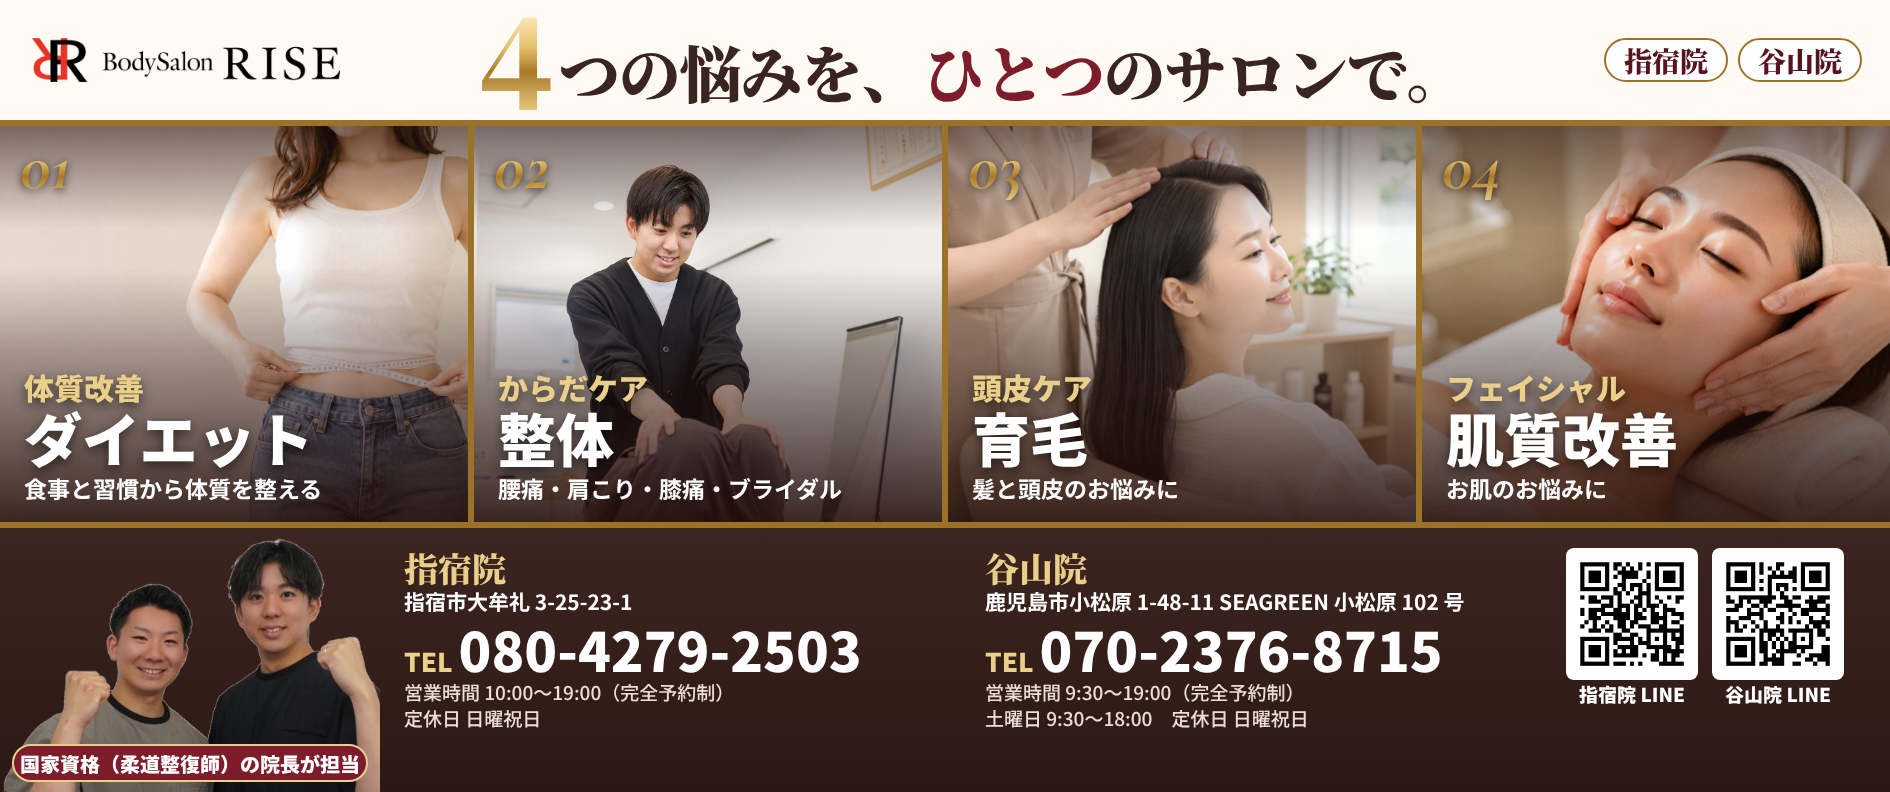
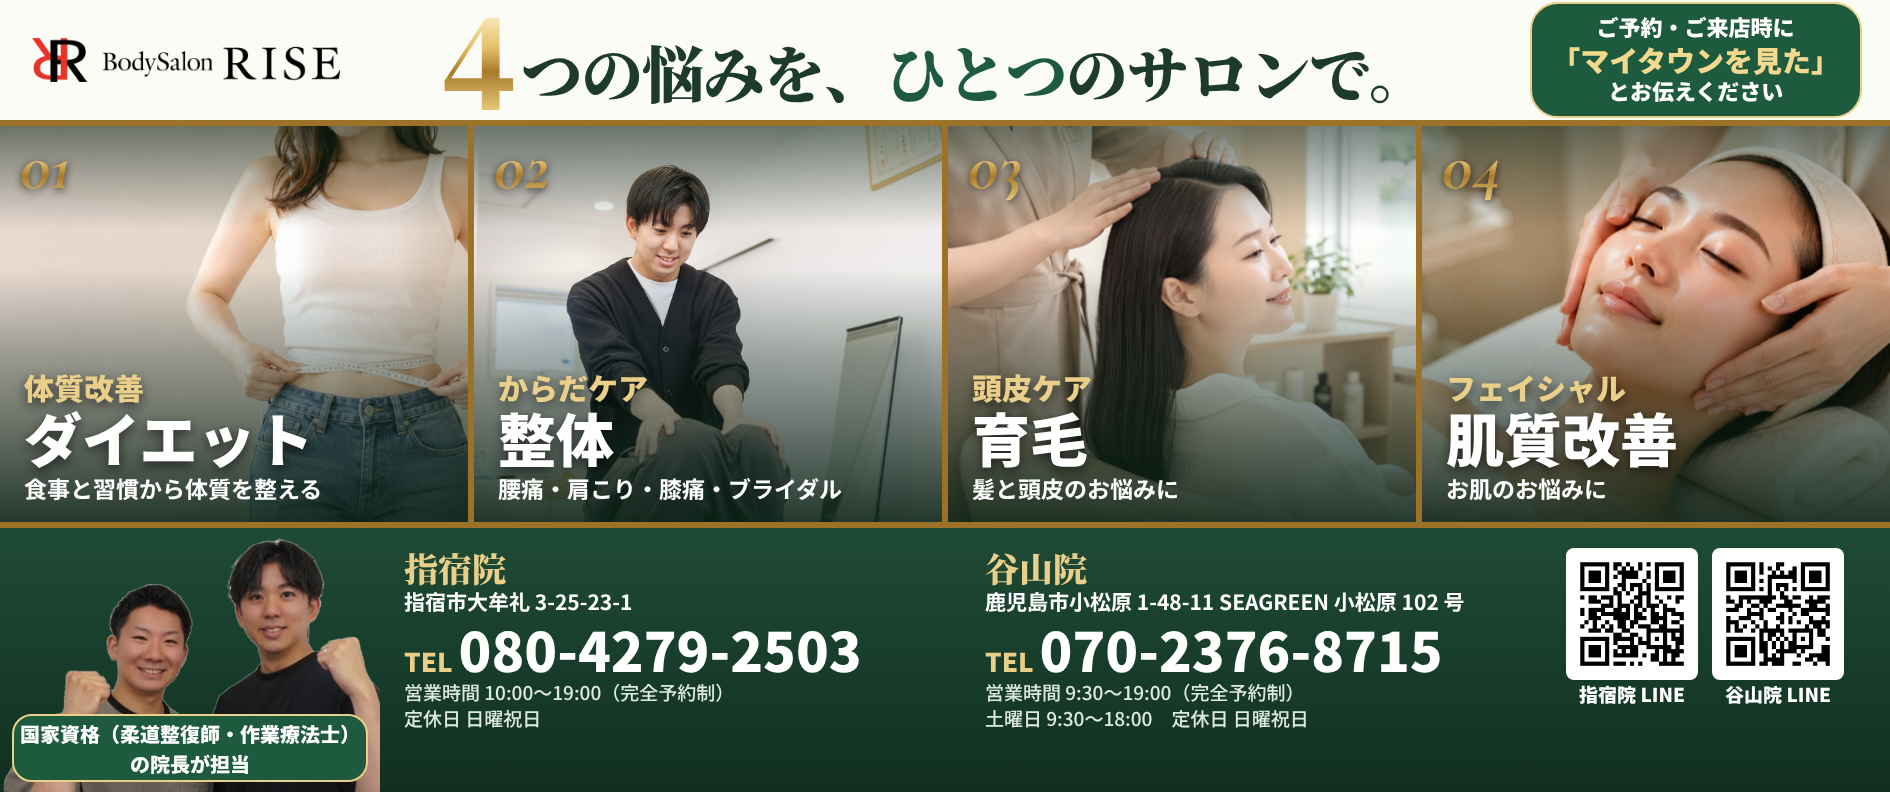
ライズ様：広告・帯をグリーン基調に、和田一真さんを作業療法士に、キーワード「マイタウンを見た」を追加
Claude-Session: https://claude.ai/code/session_01AEUD4z4Xri7e87iKXPW3R9

diff --git a/sites/rise/mytownguide/ad-1page.html b/sites/rise/mytownguide/ad-1page.html
@@ -6,14 +6,14 @@
 <link href="https://fonts.googleapis.com/css2?family=Noto+Sans+JP:wght@500;700;900&family=Noto+Serif+JP:wght@600;900&family=Cormorant+Garamond:ital,wght@1,600;1,700&display=block" rel="stylesheet">
 <style>
 /* 1100 x 1556 px（A4比率）。deviceScaleFactor 2 で 2200 x 3112 に書き出し */
-:root{--wine:#7d1d2c;--wine-d:#561320;--brown:#3a2420;--ink:#2e1e1a;--gold1:#9c7128;--gold2:#e9cf8a;--cream:#fbf5ec;--cream2:#f3e6d3}
+:root{--wine:#1d5a3e;--wine-d:#123d29;--brown:#1d3a2b;--ink:#17291f;--gold1:#9c7128;--gold2:#e9cf8a;--cream:#f5f8ef;--cream2:#dfe9d6}
 *{box-sizing:border-box;margin:0;padding:0}
 body{width:1100px;height:1556px;overflow:hidden;position:relative;background:var(--cream);font-family:"Noto Sans JP",sans-serif;color:var(--ink)}
 .goldbg{background:linear-gradient(135deg,#a77a2c 0%,#f1d999 28%,#c39a48 52%,#f6e3a6 74%,#a77a2c 100%)}
 .goldtxt{background:linear-gradient(180deg,#fff1c4 0%,#e3bf6a 38%,#a87a2a 62%,#e6c878 100%);-webkit-background-clip:text;background-clip:text;color:transparent}
 
 /* ヘッダー */
-.head{position:absolute;left:0;right:0;top:0;height:64px;display:flex;align-items:center;justify-content:space-between;padding:0 30px;background:#fffaf3}
+.head{position:absolute;left:0;right:0;top:0;height:64px;display:flex;align-items:center;justify-content:space-between;padding:0 30px;background:#fbfcf6}
 .head img{height:34px;display:block}
 .head .lead{font-weight:900;font-size:19px;color:var(--wine)}
 .inns{display:flex;gap:8px}
@@ -24,8 +24,8 @@ body{width:1100px;height:1556px;overflow:hidden;position:relative;background:var
 .cell{position:relative;overflow:hidden}
 .cell img{position:absolute;inset:0;width:100%;height:100%;object-fit:cover}
 .cell::after{content:"";position:absolute;inset:0}
-.c1::after,.c2::after{background:linear-gradient(180deg,rgba(35,14,10,.82) 0%,rgba(35,14,10,.35) 38%,rgba(35,14,10,0) 60%)}
-.c3::after,.c4::after{background:linear-gradient(0deg,rgba(35,14,10,.85) 0%,rgba(35,14,10,.35) 40%,rgba(35,14,10,0) 62%)}
+.c1::after,.c2::after{background:linear-gradient(180deg,rgba(10,34,22,.82) 0%,rgba(10,34,22,.35) 38%,rgba(10,34,22,0) 60%)}
+.c3::after,.c4::after{background:linear-gradient(0deg,rgba(10,34,22,.85) 0%,rgba(10,34,22,.35) 40%,rgba(10,34,22,0) 62%)}
 .tx{position:absolute;z-index:2;color:#fff}
 .c1 .tx{left:26px;top:16px}.c2 .tx{right:26px;top:16px;text-align:right}
 .c3 .tx{left:26px;bottom:20px}.c4 .tx{right:26px;bottom:20px;text-align:right}
@@ -58,42 +58,44 @@ body{width:1100px;height:1556px;overflow:hidden;position:relative;background:var
 .photo2 img.p{position:absolute;left:-10px;bottom:-78px;width:550px;-webkit-mask-image:linear-gradient(90deg,transparent 0,#000 10%);mask-image:linear-gradient(90deg,transparent 0,#000 10%)}
 .medal{position:absolute;width:92px;height:92px;border-radius:50%;display:grid;place-items:center;text-align:center;box-shadow:0 5px 12px rgba(90,60,20,.3);z-index:3}
 .medal b{font-family:"Noto Serif JP",serif;font-weight:900;font-size:17px;line-height:1.2;color:#4a2a12}
-.medal b small{display:block;font-size:12.5px}
+.medal b small{display:block;font-size:11px;line-height:1.25;margin-top:2px}
 .m1{right:400px;top:70px}
 .prof{position:absolute;left:26px;right:520px;top:58px;display:grid;grid-template-columns:1fr 1fr;gap:12px}
-.pc{background:#fff;border-radius:12px;border:2px solid var(--gold2);overflow:hidden;box-shadow:0 4px 12px rgba(60,30,20,.1)}
+.pc{background:#fff;border-radius:12px;border:2px solid var(--gold2);overflow:hidden;box-shadow:0 4px 12px rgba(20,50,35,.1)}
 .pc .ph{height:150px;overflow:hidden}
 .pc .ph img{width:100%;height:100%;object-fit:cover;display:block}
 .pc .bd{padding:8px 12px 10px}
 .pc .in{font-size:14px;font-weight:900;color:#fff;background:var(--wine);display:inline-block;padding:1px 10px;border-radius:14px}
 .pc .nm{font-family:"Noto Serif JP",serif;font-weight:900;font-size:30px;line-height:1.15;color:var(--brown);margin-top:3px}
 .pc .nm small{font-size:15px;margin-left:6px;color:var(--gold1)}
-.pc .q{font-size:15px;font-weight:700;line-height:1.45;color:#4b3a33;margin-top:4px}
+.pc .q{font-size:15px;font-weight:700;line-height:1.45;color:#2f4036;margin-top:4px}
 .pc .ql{font-size:12.5px;font-weight:700;color:var(--gold1);margin-top:3px}
 
 /* 下段：結果写真とQR */
 .low{position:absolute;left:26px;right:26px;top:1186px;height:196px;display:grid;grid-template-columns:304px 1fr;gap:16px;align-items:end}
 .res{position:relative;padding-top:26px;align-self:end;margin-bottom:6px}
-.res img{width:100%;height:auto;display:block;border-radius:12px;border:3px solid #fff;box-shadow:0 4px 12px rgba(60,30,20,.2)}
+.res img{width:100%;height:auto;display:block;border-radius:12px;border:3px solid #fff;box-shadow:0 4px 12px rgba(20,50,35,.2)}
 .res .cap{position:absolute;left:8px;top:0;background:var(--wine);color:#fff;font-weight:900;font-size:16px;padding:2px 14px;border-radius:20px}
-.res .note{position:absolute;right:8px;bottom:6px;font-size:11px;font-weight:700;color:#fff;background:rgba(43,24,20,.72);padding:1px 8px;border-radius:10px}
-.qr{background:#fff;border-radius:14px;border:2px solid var(--gold2);display:flex;align-items:center;padding:8px 18px;gap:14px;box-shadow:0 4px 12px rgba(60,30,20,.12);height:160px;margin-bottom:12px}
+.res .note{position:absolute;right:8px;bottom:6px;font-size:11px;font-weight:700;color:#fff;background:rgba(18,50,36,.78);padding:1px 8px;border-radius:10px}
+.qr{background:#fff;border-radius:14px;border:2px solid var(--gold2);display:flex;align-items:center;padding:8px 18px;gap:14px;box-shadow:0 4px 12px rgba(20,50,35,.12);height:136px;margin-bottom:12px;position:relative}
+.kw{position:absolute;left:-2px;right:-2px;top:-50px;height:40px;border-radius:22px;background:var(--wine);color:#fff;display:flex;align-items:center;justify-content:center;gap:6px;font-weight:900;font-size:19px;box-shadow:0 4px 10px rgba(20,50,35,.25);border:2px solid var(--gold2);white-space:nowrap}
+.kw b{font-size:24px;color:var(--wine);background:linear-gradient(135deg,#f6e3a6,#e3bf6a);padding:0 12px;border-radius:14px;line-height:1.35}
 .qr .msg{font-weight:900;font-size:23px;line-height:1.28;color:var(--wine);width:120px;flex:none}
 .qg{display:flex;gap:8px;flex:1;justify-content:space-between}
 .qg .q{text-align:center}
-.qg .q img{width:98px;height:98px;display:block}
+.qg .q img{width:86px;height:86px;display:block}
 .qg .q span{display:block;font-weight:900;font-size:13px;line-height:1.2;margin-top:3px;color:var(--brown)}
 .qg .q span.ln{color:#05a046}
 .qg .sep{width:2px;background:var(--cream2)}
 
 /* フッター */
-.foot{position:absolute;left:0;right:0;bottom:0;height:172px;background:linear-gradient(180deg,#3d2520,#2b1814);color:#fff;display:grid;grid-template-columns:1fr 1fr;padding:10px 36px 0;border-top:5px solid #c9a24f}
+.foot{position:absolute;left:0;right:0;bottom:0;height:172px;background:linear-gradient(180deg,#1f4b36,#112f21);color:#fff;display:grid;grid-template-columns:1fr 1fr;padding:10px 36px 0;border-top:5px solid #c9a24f}
 .foot .c+.c{padding-left:30px;border-left:1px solid #ffffff33}
 .foot h4{font-family:"Noto Serif JP",serif;font-weight:900;font-size:25px;line-height:1.2;color:var(--gold2)}
 .foot .ad{font-size:16px;font-weight:700;margin-top:0}
 .foot .tel{font-weight:900;font-size:46px;line-height:1.05;margin-top:0}
 .foot .tel small{font-size:24px;margin-right:6px;color:var(--gold2)}
-.foot .hr{font-size:15px;line-height:1.4;color:#eadfd6;font-weight:500}
+.foot .hr{font-size:15px;line-height:1.4;color:#dfeadf;font-weight:500}
 </style>
 </head>
 <body>
@@ -118,18 +120,19 @@ body{width:1100px;height:1556px;overflow:hidden;position:relative;background:var
 <div class="band"><span>ダイエット</span><i></i><span>整体</span><i></i><span>育毛</span><i></i><span>肌質改善</span></div>
 
 <div class="staffsec">
-  <div class="sttl">施術するのは、<b>国家資格をもつ院長</b>です<small>柔道整復師</small></div>
+  <div class="sttl">施術するのは、<b>国家資格をもつ院長</b>です<small>柔道整復師・作業療法士</small></div>
   <div class="photo2"><div class="ring"></div><img class="p" src="img/inchou-cut.png" alt="院長2名"></div>
-  <div class="medal goldbg m1"><b>国家資格<small>柔道整復師</small></b></div>
+  <div class="medal goldbg m1"><b>国家資格<small>柔道整復師<br>作業療法士</small></b></div>
   <div class="prof">
     <div class="pc"><div class="ph"><img src="../img/r-posture.jpg" style="object-position:30% 40%" alt=""></div><div class="bd"><span class="in">指宿院 院長</span><div class="nm">和田 諒真<small>柔道整復師</small></div><div class="q">「無理な提案や押しつけはせず、納得していただいてから施術します。」</div></div></div>
-    <div class="pc"><div class="ph"><img src="../img/r-treat.jpg" style="object-position:40% 40%" alt=""></div><div class="bd"><span class="in">谷山院 院長</span><div class="nm">和田 一真<small>柔道整復師</small></div><div class="q">「お悩みやご希望を、ていねいにうかがってから進めます。」</div></div></div>
+    <div class="pc"><div class="ph"><img src="../img/r-treat.jpg" style="object-position:40% 40%" alt=""></div><div class="bd"><span class="in">谷山院 院長</span><div class="nm">和田 一真<small>作業療法士</small></div><div class="q">「お悩みやご希望を、ていねいにうかがってから進めます。」</div></div></div>
   </div>
 </div>
 
 <div class="low">
   <div class="res"><img src="img/results-ad.jpg" alt="お客様の写真"><span class="cap">ダイエットコースのお客様</span><div class="note">※効果には個人差があります</div></div>
   <div class="qr">
+    <div class="kw">ご予約・ご来店の際に<b>「マイタウンを見た」</b>とお伝えください</div>
     <div class="msg">ご予約・<br>ご相談は<br>LINEで</div>
     <div class="qg">
       <div class="q"><img src="img/qr-line-ibusuki.png" alt=""><span class="ln">指宿院<br>LINE</span></div>

diff --git a/sites/rise/mytownguide/backcover-band.html b/sites/rise/mytownguide/backcover-band.html
@@ -6,11 +6,11 @@
 <link href="https://fonts.googleapis.com/css2?family=Noto+Sans+JP:wght@500;700;900&family=Noto+Serif+JP:wght@600;900&family=Cormorant+Garamond:ital,wght@1,700&display=block" rel="stylesheet">
 <style>
 /* 945 x 396 px。deviceScaleFactor 2 で 1890 x 792（今の裏表紙の枠と同じ比率） */
-:root{--wine:#7d1d2c;--wine-d:#561320;--brown:#3a2420;--ink:#2e1e1a;--gold1:#9c7128;--gold2:#e9cf8a;--cream:#fbf5ec}
+:root{--wine:#1d5a3e;--wine-d:#123d29;--brown:#1d3a2b;--ink:#17291f;--gold1:#9c7128;--gold2:#e9cf8a;--cream:#f5f8ef}
 *{box-sizing:border-box;margin:0;padding:0}
 body{width:945px;height:396px;overflow:hidden;position:relative;font-family:"Noto Sans JP",sans-serif;color:var(--ink);background:var(--cream)}
 .goldtxt{background:linear-gradient(180deg,#fff1c4 0%,#e3bf6a 38%,#a87a2a 62%,#e6c878 100%);-webkit-background-clip:text;background-clip:text;color:transparent}
-.head{position:absolute;left:0;right:0;top:0;height:60px;display:flex;align-items:center;padding:0 14px 0 16px;gap:14px;background:#fffaf3}
+.head{position:absolute;left:0;right:0;top:0;height:60px;display:flex;align-items:center;padding:0 14px 0 16px;gap:14px;background:#fbfcf6}
 .head img{height:22px}
 .h1{font-family:"Noto Serif JP",serif;font-weight:900;color:var(--brown);display:flex;align-items:flex-end;white-space:nowrap;line-height:1;flex:1;justify-content:center}
 .h1 .n4{font-size:62px;line-height:.82;margin-right:2px}
@@ -21,13 +21,13 @@ body{width:945px;height:396px;overflow:hidden;position:relative;font-family:"Not
 .row{position:absolute;left:0;right:0;top:60px;height:204px;display:grid;grid-template-columns:repeat(4,1fr);gap:3px;background:var(--gold1);border-top:3px solid var(--gold1);border-bottom:3px solid var(--gold1)}
 .cell{position:relative;overflow:hidden}
 .cell img{position:absolute;inset:0;width:100%;height:100%;object-fit:cover}
-.cell::after{content:"";position:absolute;inset:0;background:linear-gradient(0deg,rgba(35,14,10,.88) 0%,rgba(35,14,10,.35) 42%,rgba(35,14,10,0) 64%),linear-gradient(180deg,rgba(35,14,10,.55) 0%,rgba(35,14,10,0) 26%)}
+.cell::after{content:"";position:absolute;inset:0;background:linear-gradient(0deg,rgba(10,34,22,.88) 0%,rgba(10,34,22,.35) 42%,rgba(10,34,22,0) 64%),linear-gradient(180deg,rgba(10,34,22,.55) 0%,rgba(10,34,22,0) 26%)}
 .tx{position:absolute;left:12px;right:8px;bottom:9px;z-index:2;color:#fff}
 .no{font-family:"Cormorant Garamond",serif;font-style:italic;font-weight:700;font-size:34px;line-height:.9;filter:drop-shadow(0 1px 2px rgba(0,0,0,.7));position:absolute;left:10px;top:6px;z-index:2}
 .tx h3{font-weight:900;font-size:29px;line-height:1.05;text-shadow:0 2px 6px rgba(0,0,0,.6);white-space:nowrap}
 .tx h3 small{display:block;font-size:15px;color:var(--gold2);margin-bottom:1px}
 .tx p{font-size:11.5px;font-weight:700;margin-top:4px;line-height:1.3}
-.foot{position:absolute;left:0;right:0;bottom:0;height:132px;background:linear-gradient(180deg,#3d2520,#2b1814);color:#fff;display:grid;grid-template-columns:190px 1fr 1fr 150px;gap:12px;padding:10px 12px 0 0}
+.foot{position:absolute;left:0;right:0;bottom:0;height:132px;background:linear-gradient(180deg,#1f4b36,#112f21);color:#fff;display:grid;grid-template-columns:190px 1fr 1fr 150px;gap:12px;padding:10px 12px 0 0}
 .staff{position:relative;overflow:hidden;margin-top:-10px}
 .staff img{position:absolute;left:0;bottom:-6px;width:200px}
 .staff span{position:absolute;left:6px;right:6px;bottom:5px;z-index:2;font-size:10px;font-weight:900;text-align:center;background:var(--wine);border:1px solid var(--gold2);border-radius:10px;padding:1px 0}
@@ -35,18 +35,20 @@ body{width:945px;height:396px;overflow:hidden;position:relative;font-family:"Not
 .foot .ad{font-size:10.5px;font-weight:700;line-height:1.35}
 .foot .tel{font-weight:900;font-size:27px;line-height:1.15;white-space:nowrap}
 .foot .tel small{font-size:13px;margin-right:3px;color:var(--gold2)}
-.foot .hr{font-size:9.5px;line-height:1.45;color:#eadfd6}
+.foot .hr{font-size:9.5px;line-height:1.45;color:#dfeadf}
 .qr{display:flex;gap:7px}
 .qr div{text-align:center}
 .qr img{width:66px;height:66px;display:block;background:#fff;padding:3px;border-radius:4px}
 .qr span{display:block;font-size:9.5px;font-weight:900;line-height:1.2;margin-top:2px}
+.kw{margin-left:auto;background:var(--wine);color:#fff;font-weight:900;font-size:11px;line-height:1.25;padding:5px 10px;border-radius:14px;border:1.5px solid var(--gold2);text-align:center;white-space:nowrap}
+.kw b{display:block;font-size:14.5px;color:#f3d98e}
 </style>
 </head>
 <body>
 <div class="head">
   <img src="img/logo.png" alt="Body Salon RISE">
   <div class="h1"><span class="n4 goldtxt">4</span><span class="t">つの悩みを、<b>ひとつ</b>のサロンで。</span></div>
-  <div class="inns"><span>指宿院</span><span>谷山院</span></div>
+  <div class="kw">ご予約・ご来店時に<b>「マイタウンを見た」</b>とお伝えください</div>
 </div>
 <div class="row">
   <div class="cell"><img src="../img/ai-waist.jpg" style="object-position:62% 45%" alt=""><span class="no goldtxt">01</span><div class="tx"><h3><small>体質改善</small>ダイエット</h3><p>食事と習慣から体質を整える</p></div></div>
@@ -55,7 +57,7 @@ body{width:945px;height:396px;overflow:hidden;position:relative;font-family:"Not
   <div class="cell"><img src="../img/hada.jpg" style="object-position:50% 40%" alt=""><span class="no goldtxt">04</span><div class="tx"><h3><small>フェイシャル</small>肌質改善</h3><p>お肌のお悩みに</p></div></div>
 </div>
 <div class="foot">
-  <div class="staff"><img src="img/inchou-cut.png" alt="院長2名"><span>国家資格（柔道整復師）の院長が担当</span></div>
+  <div class="staff"><img src="img/inchou-cut.png" alt="院長2名"><span>国家資格（柔道整復師・作業療法士）の院長が担当</span></div>
   <div><h4>指宿院</h4><div class="ad">指宿市大牟礼 3-25-23-1</div><div class="tel"><small>TEL</small>080-4279-2503</div><div class="hr">営業時間 10:00～19:00（完全予約制）<br>定休日 日曜祝日</div></div>
   <div><h4>谷山院</h4><div class="ad">鹿児島市小松原 1-48-11 SEAGREEN 小松原 102 号</div><div class="tel"><small>TEL</small>070-2376-8715</div><div class="hr">営業時間 9:30～19:00（完全予約制）<br>土曜日 9:30～18:00　定休日 日曜祝日</div></div>
   <div class="qr"><div><img src="img/qr-line-ibusuki.png" alt=""><span>指宿院 LINE</span></div><div><img src="img/qr-line-taniyama.png" alt=""><span>谷山院 LINE</span></div></div>

diff --git a/sites/rise/index.html b/sites/rise/index.html
@@ -4,7 +4,7 @@
 <meta charset="utf-8">
 <meta name="viewport" content="width=device-width, initial-scale=1">
 <title>Body Salon RISE｜指宿・谷山のダイエット・整体・育毛・肌質改善サロン</title>
-<meta name="description" content="鹿児島県指宿市・鹿児島市谷山のBody Salon RISE（ボディサロンライズ）。ダイエット・整体・育毛・肌質改善の4つのメニューを、国家資格（柔道整復師）を持つ院長がご案内します。完全予約制のサロンです。">
+<meta name="description" content="鹿児島県指宿市・鹿児島市谷山のBody Salon RISE（ボディサロンライズ）。ダイエット・整体・育毛・肌質改善の4つのメニューを、国家資格（柔道整復師・作業療法士）を持つ院長がご案内します。完全予約制のサロンです。">
 <link rel="preconnect" href="https://fonts.googleapis.com">
 <link rel="preconnect" href="https://fonts.gstatic.com" crossorigin>
 <link href="https://fonts.googleapis.com/css2?family=Noto+Sans+JP:wght@400;500;700&family=Noto+Serif+JP:wght@500;600&display=swap" rel="stylesheet">
@@ -356,7 +356,7 @@ footer a{color:#fff}
 
 <div class="topbar" aria-label="お客様の結果">
   <div class="tb-track">
-    <span>✦ <b>ダイエット・整体・育毛・肌質改善</b> の4つのメニュー</span><span>✦ ダイエット3ヶ月コースで <b>−10.9kg</b> 達成</span><span>✦ 3ヶ月コースで <b>−9.1kg</b> 達成</span><span>✦ 3ヶ月コースで <b>−8.9kg</b> 達成</span><span>✦ 国家資格（柔道整復師）の院長が担当</span><span>✦ 70代男性「首の痛みが楽になり、毎日を楽しく過ごせています」</span><span>✦ HP限定 初回 <b>500円</b>〜</span><span class="tb-note">※効果には個人差があります</span>
+    <span>✦ <b>ダイエット・整体・育毛・肌質改善</b> の4つのメニュー</span><span>✦ ダイエット3ヶ月コースで <b>−10.9kg</b> 達成</span><span>✦ 3ヶ月コースで <b>−9.1kg</b> 達成</span><span>✦ 3ヶ月コースで <b>−8.9kg</b> 達成</span><span>✦ 国家資格（柔道整復師・作業療法士）の院長が担当</span><span>✦ 70代男性「首の痛みが楽になり、毎日を楽しく過ごせています」</span><span>✦ HP限定 初回 <b>500円</b>〜</span><span class="tb-note">※効果には個人差があります</span>
   </div>
 </div>
 <header>
@@ -502,8 +502,8 @@ footer a{color:#fff}
       </div>
       <div class="rcard">
         <div class="no">02</div>
-        <h3>国家資格・柔道整復師の<br>院長が担当</h3>
-        <p>整骨院での経験を活かし、骨盤矯正や肩甲骨はがしで姿勢と骨格のゆがみを整えます。体の土台を整えることを大切にしています。</p>
+        <h3>国家資格をもつ<br>院長が担当</h3>
+        <p>指宿院は柔道整復師、谷山院は作業療法士の院長が担当します。整骨院での経験を活かし、骨盤矯正や肩甲骨はがしで姿勢と骨格のゆがみを整えます。体の土台を整えることを大切にしています。</p>
       </div>
       <div class="rcard">
         <div class="no">03</div>
@@ -616,7 +616,7 @@ footer a{color:#fff}
       <p>整骨院に勤めていた頃、肩こりや腰痛の施術をしても、すぐに再発してしまう方を多く見てきました。「痩せていた頃はこんな痛みはなかった」――そんな声を何度も耳にし、「本当の改善とは何だろう」と考えるようになりました。</p>
       <p>たどり着いた答えは、その場しのぎの施術ではなく、生活習慣と体質を変えること。独立した今、これまで学んできた知識と技術のすべてで、本気で変わりたい方を全力でサポートします。</p>
       <p>目指すのは、地域の誰もが気軽に通える“みんなの病院”のような存在。無理な提案や押しつけはせず、納得していただいたうえで施術を進めます。</p>
-      <p>鹿児島市の谷山院では、院長・和田一真が同じ想いで皆さまをお迎えしています。</p>
+      <p>鹿児島市の谷山院では、院長・和田一真（作業療法士）が同じ想いで皆さまをお迎えしています。</p>
       <p class="serif" style="color:var(--wine)">「もう失敗したくない」「これで最後にしたい」――その想いに、真剣にお応えします。</p>
     </div>
   </div>
@@ -697,7 +697,7 @@ footer a{color:#fff}
           <tr><th>定休日</th><td>日曜・祝日</td></tr>
           <tr><th>予約</th><td>完全予約制</td></tr>
           <tr><th>電話</th><td><a href="tel:07023768715">070-2376-8715</a></td></tr>
-          <tr><th>院長</th><td>和田 一真</td></tr>
+          <tr><th>院長</th><td>和田 一真（作業療法士）</td></tr>
           <tr><th>SNS</th><td><a href="https://www.instagram.com/taniyama.diet/" target="_blank" rel="noopener">Instagram @taniyama.diet</a></td></tr>
         </table>
         <div class="map"><iframe loading="lazy" title="谷山院の地図" src="https://www.google.com/maps?q=%E9%B9%BF%E5%85%90%E5%B3%B6%E5%B8%82%E5%B0%8F%E6%9D%BE%E5%8E%9F1-48-11&output=embed"></iframe></div>
